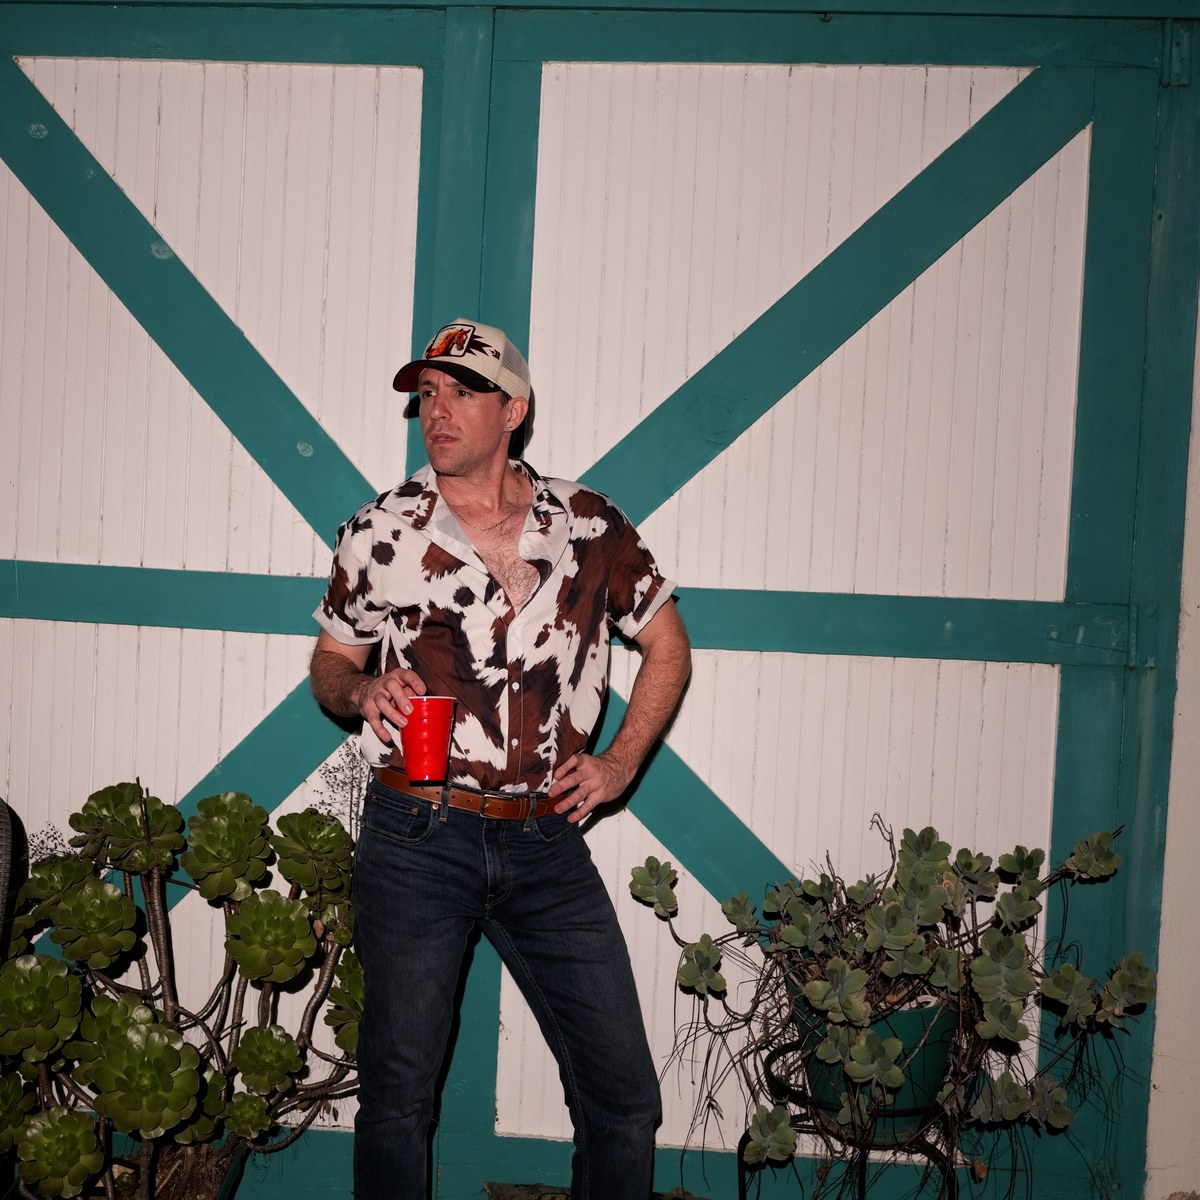
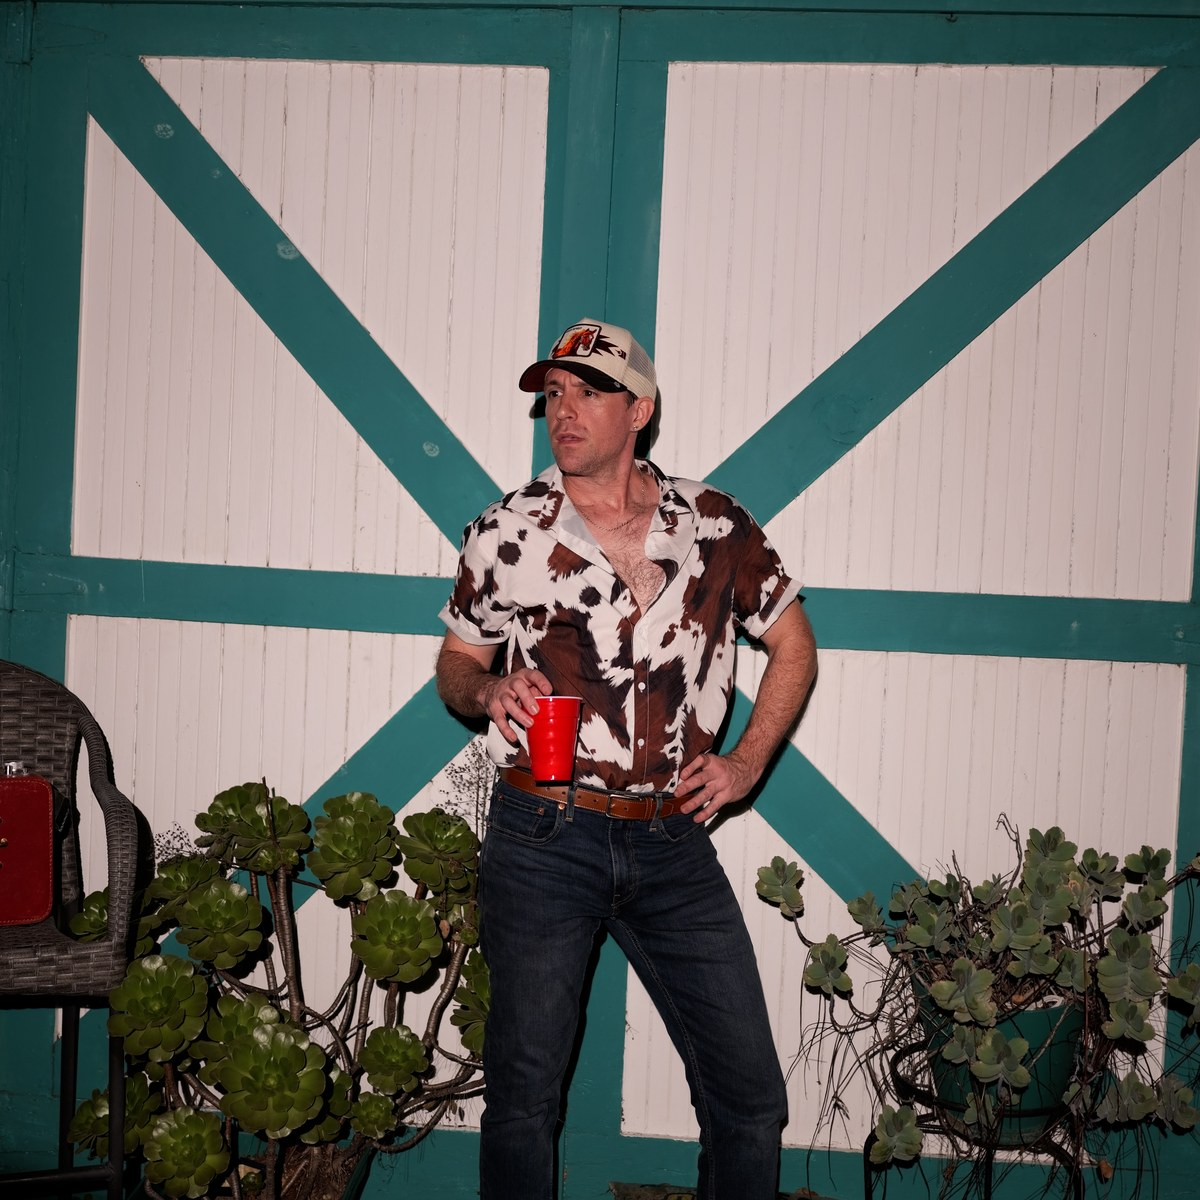
Expand the About gallery with the found Spotify photos.
Recenter the barn-door photo and add the smile, Wild Horse, stairs, and halftone mic shots in the requested order. Later slides lazy-load, and photos stay centered in the square crop.

diff --git a/index.html b/index.html
@@ -1039,6 +1039,7 @@ if(/shop\.rowdyhop\.com/.test(h)){fbq('trackCustom','ClickShop',{url:h});gtag('e
       height: 100%;
       display: block;
       object-fit: cover;
+      object-position: center;
       aspect-ratio: 1 / 1;
     }
 
@@ -2016,7 +2017,19 @@ if(/shop\.rowdyhop\.com/.test(h)){fbq('trackCustom','ClickShop',{url:h});gtag('e
                 <img src="about-barn.jpg" alt="Rowdy Hop in front of barn doors" class="about-photo" width="1200" height="1200" />
               </figure>
               <figure class="about-gallery-slide" aria-hidden="true">
+                <img src="about-smile-bw.jpg" alt="Rowdy Hop smiling in a cap and Willie Nelson T-shirt" class="about-photo" width="1200" height="1200" loading="lazy" />
+              </figure>
+              <figure class="about-gallery-slide" aria-hidden="true">
+                <img src="about-wild-horse.jpg" alt="Rowdy Hop in a white shirt with Wild Horse title" class="about-photo" width="1200" height="1200" loading="lazy" />
+              </figure>
+              <figure class="about-gallery-slide" aria-hidden="true">
                 <img src="about-stage.jpg" alt="Rowdy Hop on stage with drums and neon lights" class="about-photo" width="1200" height="1200" loading="lazy" />
+              </figure>
+              <figure class="about-gallery-slide" aria-hidden="true">
+                <img src="about-stairs.jpg" alt="Rowdy Hop sitting on stairs with Rowdy Hop lettering" class="about-photo" width="1200" height="1200" loading="lazy" />
+              </figure>
+              <figure class="about-gallery-slide" aria-hidden="true">
+                <img src="about-mic-halftone.jpg" alt="Rowdy Hop singing into a microphone" class="about-photo" width="1200" height="1200" loading="lazy" />
               </figure>
             </div>
           </div>
@@ -2029,6 +2042,10 @@ if(/shop\.rowdyhop\.com/.test(h)){fbq('trackCustom','ClickShop',{url:h});gtag('e
           <div class="about-gallery-dots" role="tablist" aria-label="Choose photo">
             <button type="button" class="about-gallery-dot is-active" aria-label="Show photo 1" aria-current="true"><span></span></button>
             <button type="button" class="about-gallery-dot" aria-label="Show photo 2"><span></span></button>
+            <button type="button" class="about-gallery-dot" aria-label="Show photo 3"><span></span></button>
+            <button type="button" class="about-gallery-dot" aria-label="Show photo 4"><span></span></button>
+            <button type="button" class="about-gallery-dot" aria-label="Show photo 5"><span></span></button>
+            <button type="button" class="about-gallery-dot" aria-label="Show photo 6"><span></span></button>
           </div>
         </div>
       </div>
